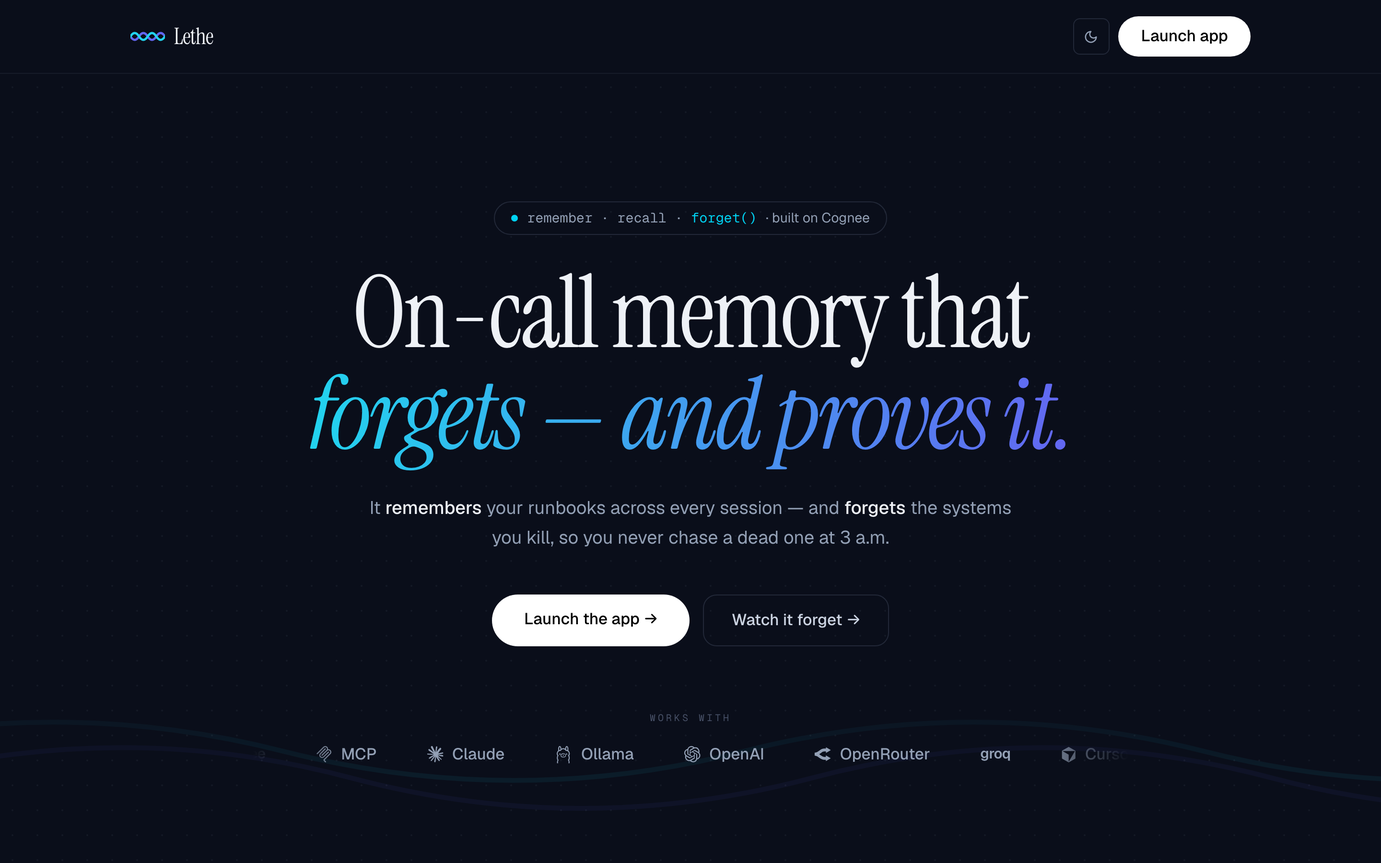
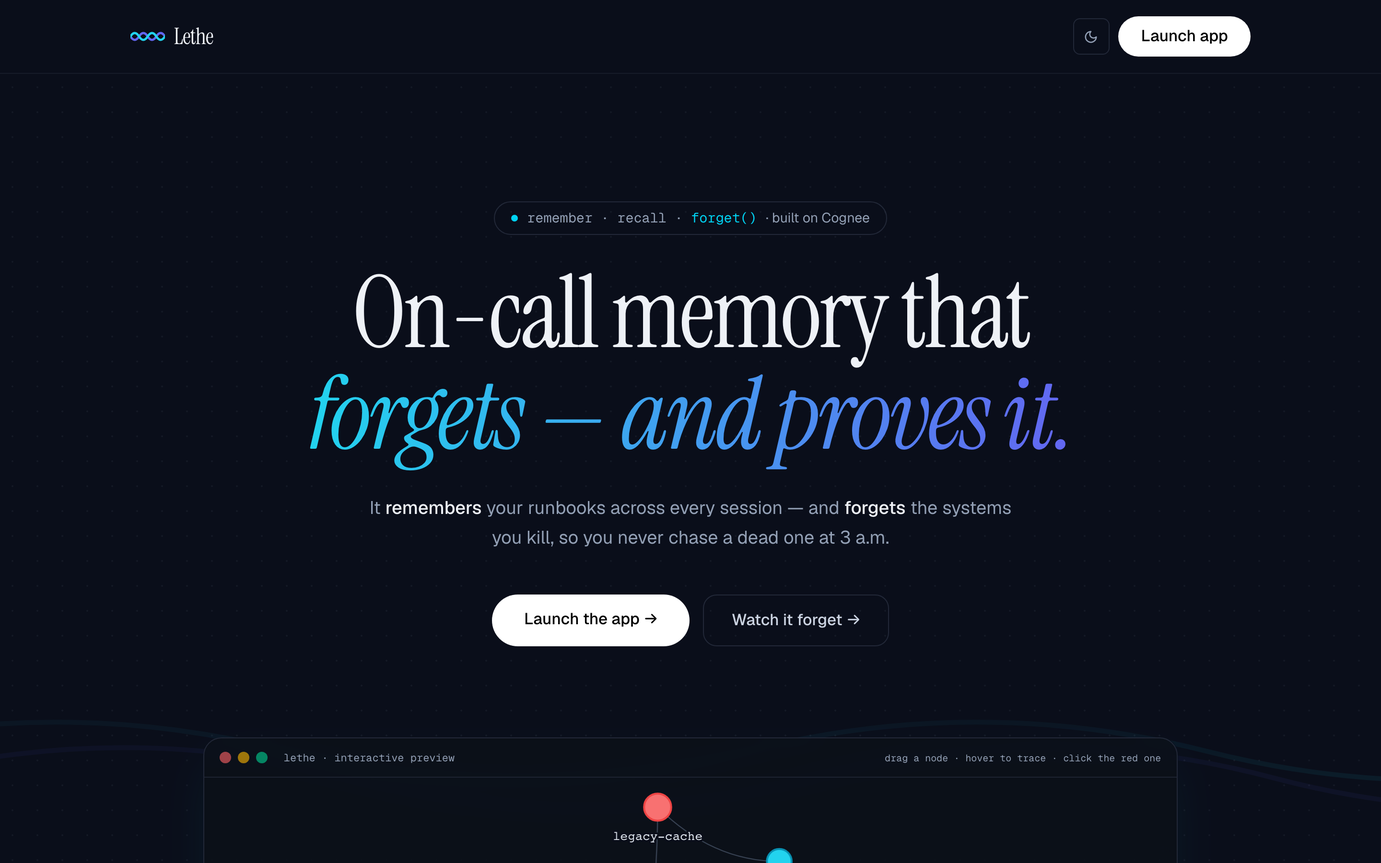
ux: public-demo mode, live graph physics in view, product-first hero, live-demo link in README

diff --git a/app.py b/app.py
@@ -31,6 +31,9 @@ app = FastAPI(title="Lethe")
 # destructive /forget + the quota-spending /ask & /upload). Landing, /app and /health stay open so the
 # page can load and prompt for the token; the web UI and the MCP server attach it automatically.
 _AUTH_TOKEN = os.environ.get("LETHE_AUTH_TOKEN", "").strip()
+# Opt-in HOSTED-DEMO mode: allow anonymous remote access with no token (pair it with LETHE_RATE_LIMIT).
+# Deliberate and explicit — the fail-closed default below is unchanged unless this is set.
+_PUBLIC_DEMO = os.environ.get("LETHE_PUBLIC_DEMO", "").strip().lower() in ("1", "true", "yes")
 # Live retrieval influence for curation: >0 lets demoted (down-weighted) systems sink in answers.
 # Proven hero-safe — with uniform weights (nothing demoted) results are identical to influence=0.
 LIVE_FEEDBACK_INFLUENCE = float(os.environ.get("LETHE_FEEDBACK_INFLUENCE", "0.6"))
@@ -57,9 +60,10 @@ async def _auth_gate(request: Request, call_next):
             # A token is configured — every sensitive route requires it (timing-safe compare).
             if not _is_authenticated(request):
                 return JSONResponse({"detail": "Unauthorized — provide the Lethe access token."}, status_code=401)
-        elif not _is_loopback_client(request):
+        elif not _is_loopback_client(request) and not _PUBLIC_DEMO:
             # No token AND the caller is remote → FAIL CLOSED (don't leave /forget, /upload, /llm-config open).
             # The loopback local demo stays fully open (this branch is skipped for 127.0.0.1/::1).
+            # LETHE_PUBLIC_DEMO=1 opts a HOSTED demo out of this gate (rate-limited, resettable by re-arm/restart).
             return JSONResponse(
                 {"detail": "This Lethe instance is not configured for remote access. "
                            "Set LETHE_AUTH_TOKEN to allow non-local access."}, status_code=403)
@@ -2526,7 +2530,7 @@ PAGE = """<!doctype html>
  }
  function loadGraph(){loadVis(async()=>{
    $('gmeta').textContent='loading…';gpinned=null;
-   {const gs=$('gskel');if(gs)gs.classList.remove('hidden');}const _gbx=$('graphbox');if(_gbx){_gbx.style.transition='opacity .45s ease';_gbx.style.opacity='0';}
+   {const gs=$('gskel');if(gs)gs.classList.add('hidden');}  // physics settles IN VIEW — the live wobble IS the show (CEO: never hide/freeze it)
    try{const d=await(await fetch('/graph?workspace='+encodeURIComponent(activeWs))).json();
      if(d.error){$('gmeta').textContent='error: '+d.error;return;}
      const p=gpal();
@@ -2560,16 +2564,7 @@ PAGE = """<!doctype html>
      const gk=$('gask');
      gnet.on('click',pr=>{if(pr.nodes&&pr.nodes.length){gpinned=pr.nodes[0];gpdepth=1;gFocusHops(gpinned,1);gMeta(gpinned);gPanelShow(gpinned);if(gk)gk.classList.add('hidden');gnet.focus(gpinned,{scale:gnet.getScale(),locked:false,animation:{duration:500,easingFunction:'easeInOutCubic'}});}else{gpinned=null;gpdepth=1;gReset();gMeta(null);gPanelHide();gnet.fit({animation:{duration:600,easingFunction:'easeInOutQuad'}});}});
      gnet.on('doubleClick',pr=>{if(pr.nodes&&pr.nodes.length){const n=gdata.byId[pr.nodes[0]];if(n)askAbout(n.label);}});
-     // S2: reveal-settle — fade the canvas in + a slight camera zoom-out once layout stabilizes (physics untouched).
-     gnet.once('stabilizationIterationsDone',()=>{
-       const gs=$('gskel');if(gs)gs.classList.add('hidden');
-       box.style.opacity='1';
-       gnet.fit({animation:false});
-       const target=gnet.getScale(),pos=gnet.getViewPosition();
-       if(matchMedia('(prefers-reduced-motion:reduce)').matches)return;
-       gnet.moveTo({scale:target*1.15,position:pos});                                            // start a touch zoomed-in
-       gnet.moveTo({scale:target,position:pos,animation:{duration:650,easingFunction:'easeOutCubic'}});  // settle: zoom out into view
-     });
+     gnet.once('stabilizationIterationsDone',()=>gnet.fit({animation:{duration:600,easingFunction:'easeInOutQuad'}}));
      window.gFocus=gFocus;window.gReset=gReset;window.gFocusHops=gFocusHops;
      gMeta(null);
    }catch(e){$('gmeta').textContent='failed to load graph';}
@@ -2824,26 +2819,7 @@ LANDING = """<!doctype html>
     <a href="/app" class="rounded-full bg-zinc-950 px-7 py-3 text-sm font-medium text-white transition duration-200 hover:-translate-y-0.5 hover:bg-zinc-800 hover:shadow-lg hover:shadow-cyan-500/10 dark:bg-white dark:text-black dark:hover:bg-zinc-200">Launch the app →</a>
     <a href="#scrolly" class="rounded-xl border border-zinc-300 px-6 py-3 text-sm font-medium text-zinc-700 transition duration-200 hover:-translate-y-0.5 hover:bg-zinc-100 dark:border-zinc-800 dark:text-zinc-300 dark:hover:bg-zinc-900">Watch it forget &rarr;</a>
   </div>
-  <div class="rise mx-auto mt-14 flex max-w-3xl flex-col items-center gap-4" style="animation-delay:.44s">
-    <span class="mono text-[10px] uppercase tracking-[0.25em] text-zinc-400 dark:text-zinc-600">works with</span>
-    <div class="wwwrap wwmask w-full overflow-hidden">
-      <div class="wwmarq flex w-max items-center">
-        <div id="wwSet" class="flex shrink-0 items-center gap-x-11 pr-11">
-          <span class="flex shrink-0 items-center gap-2 text-zinc-500 transition hover:text-zinc-800 dark:text-zinc-400 dark:hover:text-zinc-100"><svg viewBox="0 0 24 24" class="h-[15px] w-[15px] fill-current" aria-hidden="true"><rect x="1.5" y="9" width="1.7" height="6" rx=".85"/><rect x="4.6" y="6" width="1.7" height="12" rx=".85"/><rect x="7.7" y="3" width="1.7" height="18" rx=".85"/><rect x="10.8" y="8" width="1.7" height="8" rx=".85"/><rect x="13.9" y="1.5" width="1.7" height="21" rx=".85"/><rect x="17" y="7" width="1.7" height="10" rx=".85"/><rect x="20.1" y="4.5" width="1.7" height="15" rx=".85"/></svg><span class="text-[15px] font-semibold lowercase tracking-tight">cognee</span></span>
-          <span class="flex shrink-0 items-center gap-2 text-zinc-500 transition hover:text-zinc-800 dark:text-zinc-400 dark:hover:text-zinc-100"><svg viewBox="0 0 24 24" class="h-[17px] w-[17px] fill-current" aria-hidden="true"><path d="M13.85 0a4.16 4.16 0 0 0-2.95 1.217L1.456 10.66a.835.835 0 0 0 0 1.18.835.835 0 0 0 1.18 0l9.442-9.442a2.49 2.49 0 0 1 3.541 0 2.49 2.49 0 0 1 0 3.541L8.59 12.97l-.1.1a.835.835 0 0 0 0 1.18.835.835 0 0 0 1.18 0l.1-.098 7.03-7.034a2.49 2.49 0 0 1 3.542 0l.049.05a2.49 2.49 0 0 1 0 3.54l-8.54 8.54a1.96 1.96 0 0 0 0 2.755l1.753 1.753a.835.835 0 0 0 1.18 0 .835.835 0 0 0 0-1.18l-1.753-1.753a.266.266 0 0 1 0-.394l8.54-8.54a4.185 4.185 0 0 0 0-5.9l-.05-.05a4.16 4.16 0 0 0-2.95-1.218c-.2 0-.401.02-.6.048a4.17 4.17 0 0 0-1.17-3.552A4.16 4.16 0 0 0 13.85 0m0 3.333a.84.84 0 0 0-.59.245L6.275 10.56a4.186 4.186 0 0 0 0 5.902 4.186 4.186 0 0 0 5.902 0L19.16 9.48a.835.835 0 0 0 0-1.18.835.835 0 0 0-1.18 0l-6.985 6.984a2.49 2.49 0 0 1-3.54 0 2.49 2.49 0 0 1 0-3.54l6.983-6.985a.835.835 0 0 0 0-1.18.84.84 0 0 0-.59-.245"/></svg><span class="text-sm font-medium">MCP</span></span>
-          <span class="flex shrink-0 items-center gap-2 text-zinc-500 transition hover:text-zinc-800 dark:text-zinc-400 dark:hover:text-zinc-100"><svg viewBox="0 0 24 24" class="h-[17px] w-[17px] fill-current" aria-hidden="true"><path d="m4.7144 15.9555 4.7174-2.6471.079-.2307-.079-.1275h-.2307l-.7893-.0486-2.6956-.0729-2.3375-.0971-2.2646-.1214-.5707-.1215-.5343-.7042.0546-.3522.4797-.3218.686.0608 1.5179.1032 2.2767.1578 1.6514.0972 2.4468.255h.3886l.0546-.1579-.1336-.0971-.1032-.0972L6.973 9.8356l-2.55-1.6879-1.3356-.9714-.7225-.4918-.3643-.4614-.1578-1.0078.6557-.7225.8803.0607.2246.0607.8925.686 1.9064 1.4754 2.4893 1.8336.3643.3035.1457-.1032.0182-.0728-.164-.2733-1.3539-2.4467-1.445-2.4893-.6435-1.032-.17-.6194c-.0607-.255-.1032-.4674-.1032-.7285L6.287.1335 6.6997 0l.9957.1336.419.3642.6192 1.4147 1.0018 2.2282 1.5543 3.0296.4553.8985.2429.8318.091.255h.1579v-.1457l.1275-1.706.2368-2.0947.2307-2.6957.0789-.7589.3764-.9107.7468-.4918.5828.2793.4797.686-.0668.4433-.2853 1.8517-.5586 2.9021-.3643 1.9429h.2125l.2429-.2429.9835-1.3053 1.6514-2.0643.7286-.8196.85-.9046.5464-.4311h1.0321l.759 1.1293-.34 1.1657-1.0625 1.3478-.8804 1.1414-1.2628 1.7-.7893 1.36.0729.1093.1882-.0183 2.8535-.607 1.5421-.2794 1.8396-.3157.8318.3886.091.3946-.3278.8075-1.967.4857-2.3072.4614-3.4364.8136-.0425.0304.0486.0607 1.5482.1457.6618.0364h1.621l3.0175.2247.7892.522.4736.6376-.079.4857-1.2142.6193-1.6393-.3886-3.825-.9107-1.3113-.3279h-.1822v.1093l1.0929 1.0686 2.0035 1.8092 2.5075 2.3314.1275.5768-.3218.4554-.34-.0486-2.2039-1.6575-.85-.7468-1.9246-1.621h-.1275v.17l.4432.6496 2.3436 3.5214.1214 1.0807-.17.3521-.6071.2125-.6679-.1214-1.3721-1.9246L14.38 17.959l-1.1414-1.9428-.1397.079-.674 7.2552-.3156.3703-.7286.2793-.6071-.4614-.3218-.7468.3218-1.4753.3886-1.9246.3157-1.53.2853-1.9004.17-.6314-.0121-.0425-.1397.0182-1.4328 1.9672-2.1796 2.9446-1.7243 1.8456-.4128.164-.7164-.3704.0667-.6618.4008-.5889 2.386-3.0357 1.4389-1.882.929-1.0868-.0062-.1579h-.0546l-6.3385 4.1164-1.1293.1457-.4857-.4554.0608-.7467.2307-.2429 1.9064-1.3114Z"/></svg><span class="text-sm font-medium">Claude</span></span>
-          <span class="flex shrink-0 items-center gap-2 text-zinc-500 transition hover:text-zinc-800 dark:text-zinc-400 dark:hover:text-zinc-100"><svg viewBox="0 0 24 24" class="h-[18px] w-[18px] fill-current" aria-hidden="true"><path d="M16.361 10.26a.894.894 0 0 0-.558.47l-.072.148.001.207c0 .193.004.217.059.353.076.193.152.312.291.448.24.238.51.3.872.205a.86.86 0 0 0 .517-.436.752.752 0 0 0 .08-.498c-.064-.453-.33-.782-.724-.897a1.06 1.06 0 0 0-.466 0zm-9.203.005c-.305.096-.533.32-.65.639a1.187 1.187 0 0 0-.06.52c.057.309.31.59.598.667.362.095.632.033.872-.205.14-.136.215-.255.291-.448.055-.136.059-.16.059-.353l.001-.207-.072-.148a.894.894 0 0 0-.565-.472 1.02 1.02 0 0 0-.474.007Zm4.184 2c-.131.071-.223.25-.195.383.031.143.157.288.353.407.105.063.112.072.117.136.004.038-.01.146-.029.243-.02.094-.036.194-.036.222.002.074.07.195.143.253.064.052.076.054.255.059.164.005.198.001.264-.03.169-.082.212-.234.15-.525-.052-.243-.042-.28.087-.355.137-.08.281-.219.324-.314a.365.365 0 0 0-.175-.48.394.394 0 0 0-.181-.033c-.126 0-.207.03-.355.124l-.085.053-.053-.032c-.219-.13-.259-.145-.391-.143a.396.396 0 0 0-.193.032zm.39-2.195c-.373.036-.475.05-.654.086-.291.06-.68.195-.951.328-.94.46-1.589 1.226-1.787 2.114-.04.176-.045.234-.045.53 0 .294.005.357.043.524.264 1.16 1.332 2.017 2.714 2.173.3.033 1.596.033 1.896 0 1.11-.125 2.064-.727 2.493-1.571.114-.226.169-.372.22-.602.039-.167.044-.23.044-.523 0-.297-.005-.355-.045-.531-.288-1.29-1.539-2.304-3.072-2.497a6.873 6.873 0 0 0-.855-.031zm.645.937a3.283 3.283 0 0 1 1.44.514c.223.148.537.458.671.662.166.251.26.508.303.82.02.143.01.251-.043.482-.08.345-.332.705-.672.957a3.115 3.115 0 0 1-.689.348c-.382.122-.632.144-1.525.138-.582-.006-.686-.01-.853-.042-.57-.107-1.022-.334-1.35-.68-.264-.28-.385-.535-.45-.946-.03-.192.025-.509.137-.776.136-.326.488-.73.836-.963.403-.269.934-.46 1.422-.512.187-.02.586-.02.773-.002zm-5.503-11a1.653 1.653 0 0 0-.683.298C5.617.74 5.173 1.666 4.985 2.819c-.07.436-.119 1.04-.119 1.503 0 .544.064 1.24.155 1.721.02.107.031.202.023.208a8.12 8.12 0 0 1-.187.152 5.324 5.324 0 0 0-.949 1.02 5.49 5.49 0 0 0-.94 2.339 6.625 6.625 0 0 0-.023 1.357c.091.78.325 1.438.727 2.04l.13.195-.037.064c-.269.452-.498 1.105-.605 1.732-.084.496-.095.629-.095 1.294 0 .67.009.803.088 1.266.095.555.288 1.143.503 1.534.071.128.243.393.264.407.007.003-.014.067-.046.141a7.405 7.405 0 0 0-.548 1.873c-.062.417-.071.552-.071.991 0 .56.031.832.148 1.279L3.42 24h1.478l-.05-.091c-.297-.552-.325-1.575-.068-2.597.117-.472.25-.819.498-1.296l.148-.29v-.177c0-.165-.003-.184-.057-.293a.915.915 0 0 0-.194-.25 1.74 1.74 0 0 1-.385-.543c-.424-.92-.506-2.286-.208-3.451.124-.486.329-.918.544-1.154a.787.787 0 0 0 .223-.531c0-.195-.07-.355-.224-.522a3.136 3.136 0 0 1-.817-1.729c-.14-.96.114-2.005.69-2.834.563-.814 1.353-1.336 2.237-1.475.199-.033.57-.028.776.01.226.04.367.028.512-.041.179-.085.268-.19.374-.431.093-.215.165-.333.36-.576.234-.29.46-.489.822-.729.413-.27.884-.467 1.352-.561.17-.035.25-.04.569-.04.319 0 .398.005.569.04a4.07 4.07 0 0 1 1.914.997c.117.109.398.457.488.602.034.057.095.177.132.267.105.241.195.346.374.43.14.068.286.082.503.045.343-.058.607-.053.943.016 1.144.23 2.14 1.173 2.581 2.437.385 1.108.276 2.267-.296 3.153-.097.15-.193.27-.333.419-.301.322-.301.722-.001 1.053.493.539.801 1.866.708 3.036-.062.772-.26 1.463-.533 1.854a2.096 2.096 0 0 1-.224.258.916.916 0 0 0-.194.25c-.054.109-.057.128-.057.293v.178l.148.29c.248.476.38.823.498 1.295.253 1.008.231 2.01-.059 2.581a.845.845 0 0 0-.044.098c0 .006.329.009.732.009h.73l.02-.074.036-.134c.019-.076.057-.3.088-.516.029-.217.029-1.016 0-1.258-.11-.875-.295-1.57-.597-2.226-.032-.074-.053-.138-.046-.141.008-.005.057-.074.108-.152.376-.569.607-1.284.724-2.228.031-.26.031-1.378 0-1.628-.083-.645-.182-1.082-.348-1.525a6.083 6.083 0 0 0-.329-.7l-.038-.064.131-.194c.402-.604.636-1.262.727-2.04a6.625 6.625 0 0 0-.024-1.358 5.512 5.512 0 0 0-.939-2.339 5.325 5.325 0 0 0-.95-1.02 8.097 8.097 0 0 1-.186-.152.692.692 0 0 1 .023-.208c.208-1.087.201-2.443-.017-3.503-.19-.924-.535-1.658-.98-2.082-.354-.338-.716-.482-1.15-.455-.996.059-1.8 1.205-2.116 3.01a6.805 6.805 0 0 0-.097.726c0 .036-.007.066-.015.066a.96.96 0 0 1-.149-.078A4.857 4.857 0 0 0 12 3.03c-.832 0-1.687.243-2.456.698a.958.958 0 0 1-.148.078c-.008 0-.015-.03-.015-.066a6.71 6.71 0 0 0-.097-.725C8.997 1.392 8.337.319 7.46.048a2.096 2.096 0 0 0-.585-.041Zm.293 1.402c.248.197.523.759.682 1.388.03.113.06.244.069.292.007.047.026.152.041.233.067.365.098.76.102 1.24l.002.475-.12.175-.118.178h-.278c-.324 0-.646.041-.954.124l-.238.06c-.033.007-.038-.003-.057-.144a8.438 8.438 0 0 1 .016-2.323c.124-.788.413-1.501.696-1.711.067-.05.079-.049.157.013zm9.825-.012c.17.126.358.46.498.888.28.854.36 2.028.212 3.145-.019.14-.024.151-.057.144l-.238-.06a3.693 3.693 0 0 0-.954-.124h-.278l-.119-.178-.119-.175.002-.474c.004-.669.066-1.19.214-1.772.157-.623.434-1.185.68-1.382.078-.062.09-.063.159-.012z"/></svg><span class="text-sm font-medium">Ollama</span></span>
-          <span class="flex shrink-0 items-center gap-2 text-zinc-500 transition hover:text-zinc-800 dark:text-zinc-400 dark:hover:text-zinc-100"><svg viewBox="0 0 24 24" class="h-[17px] w-[17px] fill-current" aria-hidden="true"><path d="M22.2819 9.8211a5.9847 5.9847 0 0 0-.5157-4.9108 6.0462 6.0462 0 0 0-6.5098-2.9A6.0651 6.0651 0 0 0 4.9807 4.1818a5.9847 5.9847 0 0 0-3.9977 2.9 6.0462 6.0462 0 0 0 .7427 7.0966 5.98 5.98 0 0 0 .511 4.9107 6.051 6.051 0 0 0 6.5146 2.9001A5.9847 5.9847 0 0 0 13.2599 24a6.0557 6.0557 0 0 0 5.7718-4.2058 5.9894 5.9894 0 0 0 3.9977-2.9001 6.0557 6.0557 0 0 0-.7475-7.0729zm-9.022 12.6081a4.4755 4.4755 0 0 1-2.8764-1.0408l.1419-.0804 4.7783-2.7582a.7948.7948 0 0 0 .3927-.6813v-6.7369l2.02 1.1686a.071.071 0 0 1 .038.052v5.5826a4.504 4.504 0 0 1-4.4945 4.4944zm-9.6607-4.1254a4.4708 4.4708 0 0 1-.5346-3.0137l.142.0852 4.783 2.7582a.7712.7712 0 0 0 .7806 0l5.8428-3.3685v2.3324a.0804.0804 0 0 1-.0332.0615L9.74 19.9502a4.4992 4.4992 0 0 1-6.1408-1.6464zM2.3408 7.8956a4.485 4.485 0 0 1 2.3655-1.9728V11.6a.7664.7664 0 0 0 .3879.6765l5.8144 3.3543-2.0201 1.1685a.0757.0757 0 0 1-.071 0l-4.8303-2.7865A4.504 4.504 0 0 1 2.3408 7.872zm16.5963 3.8558L13.1038 8.364 15.1192 7.2a.0757.0757 0 0 1 .071 0l4.8303 2.7913a4.4944 4.4944 0 0 1-.6765 8.1042v-5.6772a.79.79 0 0 0-.407-.667zm2.0107-3.0231l-.142-.0852-4.7735-2.7818a.7759.7759 0 0 0-.7854 0L9.409 9.2297V6.8974a.0662.0662 0 0 1 .0284-.0615l4.8303-2.7866a4.4992 4.4992 0 0 1 6.6802 4.66zM8.3065 12.863l-2.02-1.1638a.0804.0804 0 0 1-.038-.0567V6.0742a4.4992 4.4992 0 0 1 7.3757-3.4537l-.142.0805L8.704 5.459a.7948.7948 0 0 0-.3927.6813zm1.0976-2.3654l2.602-1.4998 2.6069 1.4998v2.9994l-2.5974 1.4997-2.6067-1.4997Z"/></svg><span class="text-sm font-medium">OpenAI</span></span>
-          <span class="flex shrink-0 items-center gap-2 text-zinc-500 transition hover:text-zinc-800 dark:text-zinc-400 dark:hover:text-zinc-100"><svg viewBox="0 0 24 24" class="h-[17px] w-[17px] fill-current" aria-hidden="true"><path d="M16.778 1.844v1.919q-.569-.026-1.138-.032-.708-.008-1.415.037c-1.93.126-4.023.728-6.149 2.237-2.911 2.066-2.731 1.95-4.14 2.75-.396.223-1.342.574-2.185.798-.841.225-1.753.333-1.751.333v4.229s.768.108 1.61.333c.842.224 1.789.575 2.185.799 1.41.798 1.228.683 4.14 2.75 2.126 1.509 4.22 2.11 6.148 2.236.88.058 1.716.041 2.555.005v1.918l7.222-4.168-7.222-4.17v2.176c-.86.038-1.611.065-2.278.021-1.364-.09-2.417-.357-3.979-1.465-2.244-1.593-2.866-2.027-3.68-2.508.889-.518 1.449-.906 3.822-2.59 1.56-1.109 2.614-1.377 3.978-1.466.667-.044 1.418-.017 2.278.02v2.176L24 6.014Z"/></svg><span class="text-sm font-medium">OpenRouter</span></span>
-          <span class="flex shrink-0 items-center text-zinc-500 transition hover:text-zinc-800 dark:text-zinc-400 dark:hover:text-zinc-100"><span class="text-[15px] font-semibold lowercase tracking-tight">groq</span></span>
-          <span class="flex shrink-0 items-center gap-2 text-zinc-500 transition hover:text-zinc-800 dark:text-zinc-400 dark:hover:text-zinc-100"><svg viewBox="0 0 24 24" class="h-[16px] w-[16px] fill-current" aria-hidden="true"><path d="M11.503.131 1.891 5.678a.84.84 0 0 0-.42.726v11.188c0 .3.162.575.42.724l9.609 5.55a1 1 0 0 0 .998 0l9.61-5.55a.84.84 0 0 0 .42-.724V6.404a.84.84 0 0 0-.42-.726L12.497.131a1.01 1.01 0 0 0-.996 0M2.657 6.338h18.55c.263 0 .43.287.297.515L12.23 22.918c-.062.107-.229.064-.229-.06V12.335a.59.59 0 0 0-.295-.51l-9.11-5.257c-.109-.063-.064-.23.061-.23"/></svg><span class="text-sm font-medium">Cursor</span></span>
-          <span class="flex shrink-0 items-center text-zinc-500 transition hover:text-zinc-800 dark:text-zinc-400 dark:hover:text-zinc-100"><span class="text-[15px] font-semibold tracking-tight">Antigravity</span></span>
-        </div>
-        <div id="wwClone" aria-hidden="true" class="flex shrink-0 items-center gap-x-11 pr-11"></div>
-      </div>
-    </div>
-  </div>
-  <script>(function(){var s=document.getElementById('wwSet'),c=document.getElementById('wwClone');if(s&&c){c.innerHTML=s.innerHTML;}})();</script>
+
 </section>
 
 <section class="mx-auto max-w-4xl px-5 pb-24">
@@ -2863,6 +2839,29 @@ LANDING = """<!doctype html>
     </div>
   </div>
   <p class="mt-3.5 text-center text-sm text-zinc-500 dark:text-zinc-400">The real thing builds this from your runbooks — <a href="/app" class="underline decoration-dotted underline-offset-2 hover:text-cyan-600 dark:hover:text-cyan-400">open the app</a> for the full graph.</p>
+</section>
+
+<section class="mx-auto max-w-3xl px-5 pb-24">
+  <div class="rise mx-auto mt-0 flex max-w-3xl flex-col items-center gap-4" style="animation-delay:.44s">
+    <span class="mono text-[10px] uppercase tracking-[0.25em] text-zinc-400 dark:text-zinc-600">works with</span>
+    <div class="wwwrap wwmask w-full overflow-hidden">
+      <div class="wwmarq flex w-max items-center">
+        <div id="wwSet" class="flex shrink-0 items-center gap-x-11 pr-11">
+          <span class="flex shrink-0 items-center gap-2 text-zinc-500 transition hover:text-zinc-800 dark:text-zinc-400 dark:hover:text-zinc-100"><svg viewBox="0 0 24 24" class="h-[15px] w-[15px] fill-current" aria-hidden="true"><rect x="1.5" y="9" width="1.7" height="6" rx=".85"/><rect x="4.6" y="6" width="1.7" height="12" rx=".85"/><rect x="7.7" y="3" width="1.7" height="18" rx=".85"/><rect x="10.8" y="8" width="1.7" height="8" rx=".85"/><rect x="13.9" y="1.5" width="1.7" height="21" rx=".85"/><rect x="17" y="7" width="1.7" height="10" rx=".85"/><rect x="20.1" y="4.5" width="1.7" height="15" rx=".85"/></svg><span class="text-[15px] font-semibold lowercase tracking-tight">cognee</span></span>
+          <span class="flex shrink-0 items-center gap-2 text-zinc-500 transition hover:text-zinc-800 dark:text-zinc-400 dark:hover:text-zinc-100"><svg viewBox="0 0 24 24" class="h-[17px] w-[17px] fill-current" aria-hidden="true"><path d="M13.85 0a4.16 4.16 0 0 0-2.95 1.217L1.456 10.66a.835.835 0 0 0 0 1.18.835.835 0 0 0 1.18 0l9.442-9.442a2.49 2.49 0 0 1 3.541 0 2.49 2.49 0 0 1 0 3.541L8.59 12.97l-.1.1a.835.835 0 0 0 0 1.18.835.835 0 0 0 1.18 0l.1-.098 7.03-7.034a2.49 2.49 0 0 1 3.542 0l.049.05a2.49 2.49 0 0 1 0 3.54l-8.54 8.54a1.96 1.96 0 0 0 0 2.755l1.753 1.753a.835.835 0 0 0 1.18 0 .835.835 0 0 0 0-1.18l-1.753-1.753a.266.266 0 0 1 0-.394l8.54-8.54a4.185 4.185 0 0 0 0-5.9l-.05-.05a4.16 4.16 0 0 0-2.95-1.218c-.2 0-.401.02-.6.048a4.17 4.17 0 0 0-1.17-3.552A4.16 4.16 0 0 0 13.85 0m0 3.333a.84.84 0 0 0-.59.245L6.275 10.56a4.186 4.186 0 0 0 0 5.902 4.186 4.186 0 0 0 5.902 0L19.16 9.48a.835.835 0 0 0 0-1.18.835.835 0 0 0-1.18 0l-6.985 6.984a2.49 2.49 0 0 1-3.54 0 2.49 2.49 0 0 1 0-3.54l6.983-6.985a.835.835 0 0 0 0-1.18.84.84 0 0 0-.59-.245"/></svg><span class="text-sm font-medium">MCP</span></span>
+          <span class="flex shrink-0 items-center gap-2 text-zinc-500 transition hover:text-zinc-800 dark:text-zinc-400 dark:hover:text-zinc-100"><svg viewBox="0 0 24 24" class="h-[17px] w-[17px] fill-current" aria-hidden="true"><path d="m4.7144 15.9555 4.7174-2.6471.079-.2307-.079-.1275h-.2307l-.7893-.0486-2.6956-.0729-2.3375-.0971-2.2646-.1214-.5707-.1215-.5343-.7042.0546-.3522.4797-.3218.686.0608 1.5179.1032 2.2767.1578 1.6514.0972 2.4468.255h.3886l.0546-.1579-.1336-.0971-.1032-.0972L6.973 9.8356l-2.55-1.6879-1.3356-.9714-.7225-.4918-.3643-.4614-.1578-1.0078.6557-.7225.8803.0607.2246.0607.8925.686 1.9064 1.4754 2.4893 1.8336.3643.3035.1457-.1032.0182-.0728-.164-.2733-1.3539-2.4467-1.445-2.4893-.6435-1.032-.17-.6194c-.0607-.255-.1032-.4674-.1032-.7285L6.287.1335 6.6997 0l.9957.1336.419.3642.6192 1.4147 1.0018 2.2282 1.5543 3.0296.4553.8985.2429.8318.091.255h.1579v-.1457l.1275-1.706.2368-2.0947.2307-2.6957.0789-.7589.3764-.9107.7468-.4918.5828.2793.4797.686-.0668.4433-.2853 1.8517-.5586 2.9021-.3643 1.9429h.2125l.2429-.2429.9835-1.3053 1.6514-2.0643.7286-.8196.85-.9046.5464-.4311h1.0321l.759 1.1293-.34 1.1657-1.0625 1.3478-.8804 1.1414-1.2628 1.7-.7893 1.36.0729.1093.1882-.0183 2.8535-.607 1.5421-.2794 1.8396-.3157.8318.3886.091.3946-.3278.8075-1.967.4857-2.3072.4614-3.4364.8136-.0425.0304.0486.0607 1.5482.1457.6618.0364h1.621l3.0175.2247.7892.522.4736.6376-.079.4857-1.2142.6193-1.6393-.3886-3.825-.9107-1.3113-.3279h-.1822v.1093l1.0929 1.0686 2.0035 1.8092 2.5075 2.3314.1275.5768-.3218.4554-.34-.0486-2.2039-1.6575-.85-.7468-1.9246-1.621h-.1275v.17l.4432.6496 2.3436 3.5214.1214 1.0807-.17.3521-.6071.2125-.6679-.1214-1.3721-1.9246L14.38 17.959l-1.1414-1.9428-.1397.079-.674 7.2552-.3156.3703-.7286.2793-.6071-.4614-.3218-.7468.3218-1.4753.3886-1.9246.3157-1.53.2853-1.9004.17-.6314-.0121-.0425-.1397.0182-1.4328 1.9672-2.1796 2.9446-1.7243 1.8456-.4128.164-.7164-.3704.0667-.6618.4008-.5889 2.386-3.0357 1.4389-1.882.929-1.0868-.0062-.1579h-.0546l-6.3385 4.1164-1.1293.1457-.4857-.4554.0608-.7467.2307-.2429 1.9064-1.3114Z"/></svg><span class="text-sm font-medium">Claude</span></span>
+          <span class="flex shrink-0 items-center gap-2 text-zinc-500 transition hover:text-zinc-800 dark:text-zinc-400 dark:hover:text-zinc-100"><svg viewBox="0 0 24 24" class="h-[18px] w-[18px] fill-current" aria-hidden="true"><path d="M16.361 10.26a.894.894 0 0 0-.558.47l-.072.148.001.207c0 .193.004.217.059.353.076.193.152.312.291.448.24.238.51.3.872.205a.86.86 0 0 0 .517-.436.752.752 0 0 0 .08-.498c-.064-.453-.33-.782-.724-.897a1.06 1.06 0 0 0-.466 0zm-9.203.005c-.305.096-.533.32-.65.639a1.187 1.187 0 0 0-.06.52c.057.309.31.59.598.667.362.095.632.033.872-.205.14-.136.215-.255.291-.448.055-.136.059-.16.059-.353l.001-.207-.072-.148a.894.894 0 0 0-.565-.472 1.02 1.02 0 0 0-.474.007Zm4.184 2c-.131.071-.223.25-.195.383.031.143.157.288.353.407.105.063.112.072.117.136.004.038-.01.146-.029.243-.02.094-.036.194-.036.222.002.074.07.195.143.253.064.052.076.054.255.059.164.005.198.001.264-.03.169-.082.212-.234.15-.525-.052-.243-.042-.28.087-.355.137-.08.281-.219.324-.314a.365.365 0 0 0-.175-.48.394.394 0 0 0-.181-.033c-.126 0-.207.03-.355.124l-.085.053-.053-.032c-.219-.13-.259-.145-.391-.143a.396.396 0 0 0-.193.032zm.39-2.195c-.373.036-.475.05-.654.086-.291.06-.68.195-.951.328-.94.46-1.589 1.226-1.787 2.114-.04.176-.045.234-.045.53 0 .294.005.357.043.524.264 1.16 1.332 2.017 2.714 2.173.3.033 1.596.033 1.896 0 1.11-.125 2.064-.727 2.493-1.571.114-.226.169-.372.22-.602.039-.167.044-.23.044-.523 0-.297-.005-.355-.045-.531-.288-1.29-1.539-2.304-3.072-2.497a6.873 6.873 0 0 0-.855-.031zm.645.937a3.283 3.283 0 0 1 1.44.514c.223.148.537.458.671.662.166.251.26.508.303.82.02.143.01.251-.043.482-.08.345-.332.705-.672.957a3.115 3.115 0 0 1-.689.348c-.382.122-.632.144-1.525.138-.582-.006-.686-.01-.853-.042-.57-.107-1.022-.334-1.35-.68-.264-.28-.385-.535-.45-.946-.03-.192.025-.509.137-.776.136-.326.488-.73.836-.963.403-.269.934-.46 1.422-.512.187-.02.586-.02.773-.002zm-5.503-11a1.653 1.653 0 0 0-.683.298C5.617.74 5.173 1.666 4.985 2.819c-.07.436-.119 1.04-.119 1.503 0 .544.064 1.24.155 1.721.02.107.031.202.023.208a8.12 8.12 0 0 1-.187.152 5.324 5.324 0 0 0-.949 1.02 5.49 5.49 0 0 0-.94 2.339 6.625 6.625 0 0 0-.023 1.357c.091.78.325 1.438.727 2.04l.13.195-.037.064c-.269.452-.498 1.105-.605 1.732-.084.496-.095.629-.095 1.294 0 .67.009.803.088 1.266.095.555.288 1.143.503 1.534.071.128.243.393.264.407.007.003-.014.067-.046.141a7.405 7.405 0 0 0-.548 1.873c-.062.417-.071.552-.071.991 0 .56.031.832.148 1.279L3.42 24h1.478l-.05-.091c-.297-.552-.325-1.575-.068-2.597.117-.472.25-.819.498-1.296l.148-.29v-.177c0-.165-.003-.184-.057-.293a.915.915 0 0 0-.194-.25 1.74 1.74 0 0 1-.385-.543c-.424-.92-.506-2.286-.208-3.451.124-.486.329-.918.544-1.154a.787.787 0 0 0 .223-.531c0-.195-.07-.355-.224-.522a3.136 3.136 0 0 1-.817-1.729c-.14-.96.114-2.005.69-2.834.563-.814 1.353-1.336 2.237-1.475.199-.033.57-.028.776.01.226.04.367.028.512-.041.179-.085.268-.19.374-.431.093-.215.165-.333.36-.576.234-.29.46-.489.822-.729.413-.27.884-.467 1.352-.561.17-.035.25-.04.569-.04.319 0 .398.005.569.04a4.07 4.07 0 0 1 1.914.997c.117.109.398.457.488.602.034.057.095.177.132.267.105.241.195.346.374.43.14.068.286.082.503.045.343-.058.607-.053.943.016 1.144.23 2.14 1.173 2.581 2.437.385 1.108.276 2.267-.296 3.153-.097.15-.193.27-.333.419-.301.322-.301.722-.001 1.053.493.539.801 1.866.708 3.036-.062.772-.26 1.463-.533 1.854a2.096 2.096 0 0 1-.224.258.916.916 0 0 0-.194.25c-.054.109-.057.128-.057.293v.178l.148.29c.248.476.38.823.498 1.295.253 1.008.231 2.01-.059 2.581a.845.845 0 0 0-.044.098c0 .006.329.009.732.009h.73l.02-.074.036-.134c.019-.076.057-.3.088-.516.029-.217.029-1.016 0-1.258-.11-.875-.295-1.57-.597-2.226-.032-.074-.053-.138-.046-.141.008-.005.057-.074.108-.152.376-.569.607-1.284.724-2.228.031-.26.031-1.378 0-1.628-.083-.645-.182-1.082-.348-1.525a6.083 6.083 0 0 0-.329-.7l-.038-.064.131-.194c.402-.604.636-1.262.727-2.04a6.625 6.625 0 0 0-.024-1.358 5.512 5.512 0 0 0-.939-2.339 5.325 5.325 0 0 0-.95-1.02 8.097 8.097 0 0 1-.186-.152.692.692 0 0 1 .023-.208c.208-1.087.201-2.443-.017-3.503-.19-.924-.535-1.658-.98-2.082-.354-.338-.716-.482-1.15-.455-.996.059-1.8 1.205-2.116 3.01a6.805 6.805 0 0 0-.097.726c0 .036-.007.066-.015.066a.96.96 0 0 1-.149-.078A4.857 4.857 0 0 0 12 3.03c-.832 0-1.687.243-2.456.698a.958.958 0 0 1-.148.078c-.008 0-.015-.03-.015-.066a6.71 6.71 0 0 0-.097-.725C8.997 1.392 8.337.319 7.46.048a2.096 2.096 0 0 0-.585-.041Zm.293 1.402c.248.197.523.759.682 1.388.03.113.06.244.069.292.007.047.026.152.041.233.067.365.098.76.102 1.24l.002.475-.12.175-.118.178h-.278c-.324 0-.646.041-.954.124l-.238.06c-.033.007-.038-.003-.057-.144a8.438 8.438 0 0 1 .016-2.323c.124-.788.413-1.501.696-1.711.067-.05.079-.049.157.013zm9.825-.012c.17.126.358.46.498.888.28.854.36 2.028.212 3.145-.019.14-.024.151-.057.144l-.238-.06a3.693 3.693 0 0 0-.954-.124h-.278l-.119-.178-.119-.175.002-.474c.004-.669.066-1.19.214-1.772.157-.623.434-1.185.68-1.382.078-.062.09-.063.159-.012z"/></svg><span class="text-sm font-medium">Ollama</span></span>
+          <span class="flex shrink-0 items-center gap-2 text-zinc-500 transition hover:text-zinc-800 dark:text-zinc-400 dark:hover:text-zinc-100"><svg viewBox="0 0 24 24" class="h-[17px] w-[17px] fill-current" aria-hidden="true"><path d="M22.2819 9.8211a5.9847 5.9847 0 0 0-.5157-4.9108 6.0462 6.0462 0 0 0-6.5098-2.9A6.0651 6.0651 0 0 0 4.9807 4.1818a5.9847 5.9847 0 0 0-3.9977 2.9 6.0462 6.0462 0 0 0 .7427 7.0966 5.98 5.98 0 0 0 .511 4.9107 6.051 6.051 0 0 0 6.5146 2.9001A5.9847 5.9847 0 0 0 13.2599 24a6.0557 6.0557 0 0 0 5.7718-4.2058 5.9894 5.9894 0 0 0 3.9977-2.9001 6.0557 6.0557 0 0 0-.7475-7.0729zm-9.022 12.6081a4.4755 4.4755 0 0 1-2.8764-1.0408l.1419-.0804 4.7783-2.7582a.7948.7948 0 0 0 .3927-.6813v-6.7369l2.02 1.1686a.071.071 0 0 1 .038.052v5.5826a4.504 4.504 0 0 1-4.4945 4.4944zm-9.6607-4.1254a4.4708 4.4708 0 0 1-.5346-3.0137l.142.0852 4.783 2.7582a.7712.7712 0 0 0 .7806 0l5.8428-3.3685v2.3324a.0804.0804 0 0 1-.0332.0615L9.74 19.9502a4.4992 4.4992 0 0 1-6.1408-1.6464zM2.3408 7.8956a4.485 4.485 0 0 1 2.3655-1.9728V11.6a.7664.7664 0 0 0 .3879.6765l5.8144 3.3543-2.0201 1.1685a.0757.0757 0 0 1-.071 0l-4.8303-2.7865A4.504 4.504 0 0 1 2.3408 7.872zm16.5963 3.8558L13.1038 8.364 15.1192 7.2a.0757.0757 0 0 1 .071 0l4.8303 2.7913a4.4944 4.4944 0 0 1-.6765 8.1042v-5.6772a.79.79 0 0 0-.407-.667zm2.0107-3.0231l-.142-.0852-4.7735-2.7818a.7759.7759 0 0 0-.7854 0L9.409 9.2297V6.8974a.0662.0662 0 0 1 .0284-.0615l4.8303-2.7866a4.4992 4.4992 0 0 1 6.6802 4.66zM8.3065 12.863l-2.02-1.1638a.0804.0804 0 0 1-.038-.0567V6.0742a4.4992 4.4992 0 0 1 7.3757-3.4537l-.142.0805L8.704 5.459a.7948.7948 0 0 0-.3927.6813zm1.0976-2.3654l2.602-1.4998 2.6069 1.4998v2.9994l-2.5974 1.4997-2.6067-1.4997Z"/></svg><span class="text-sm font-medium">OpenAI</span></span>
+          <span class="flex shrink-0 items-center gap-2 text-zinc-500 transition hover:text-zinc-800 dark:text-zinc-400 dark:hover:text-zinc-100"><svg viewBox="0 0 24 24" class="h-[17px] w-[17px] fill-current" aria-hidden="true"><path d="M16.778 1.844v1.919q-.569-.026-1.138-.032-.708-.008-1.415.037c-1.93.126-4.023.728-6.149 2.237-2.911 2.066-2.731 1.95-4.14 2.75-.396.223-1.342.574-2.185.798-.841.225-1.753.333-1.751.333v4.229s.768.108 1.61.333c.842.224 1.789.575 2.185.799 1.41.798 1.228.683 4.14 2.75 2.126 1.509 4.22 2.11 6.148 2.236.88.058 1.716.041 2.555.005v1.918l7.222-4.168-7.222-4.17v2.176c-.86.038-1.611.065-2.278.021-1.364-.09-2.417-.357-3.979-1.465-2.244-1.593-2.866-2.027-3.68-2.508.889-.518 1.449-.906 3.822-2.59 1.56-1.109 2.614-1.377 3.978-1.466.667-.044 1.418-.017 2.278.02v2.176L24 6.014Z"/></svg><span class="text-sm font-medium">OpenRouter</span></span>
+          <span class="flex shrink-0 items-center text-zinc-500 transition hover:text-zinc-800 dark:text-zinc-400 dark:hover:text-zinc-100"><span class="text-[15px] font-semibold lowercase tracking-tight">groq</span></span>
+          <span class="flex shrink-0 items-center gap-2 text-zinc-500 transition hover:text-zinc-800 dark:text-zinc-400 dark:hover:text-zinc-100"><svg viewBox="0 0 24 24" class="h-[16px] w-[16px] fill-current" aria-hidden="true"><path d="M11.503.131 1.891 5.678a.84.84 0 0 0-.42.726v11.188c0 .3.162.575.42.724l9.609 5.55a1 1 0 0 0 .998 0l9.61-5.55a.84.84 0 0 0 .42-.724V6.404a.84.84 0 0 0-.42-.726L12.497.131a1.01 1.01 0 0 0-.996 0M2.657 6.338h18.55c.263 0 .43.287.297.515L12.23 22.918c-.062.107-.229.064-.229-.06V12.335a.59.59 0 0 0-.295-.51l-9.11-5.257c-.109-.063-.064-.23.061-.23"/></svg><span class="text-sm font-medium">Cursor</span></span>
+          <span class="flex shrink-0 items-center text-zinc-500 transition hover:text-zinc-800 dark:text-zinc-400 dark:hover:text-zinc-100"><span class="text-[15px] font-semibold tracking-tight">Antigravity</span></span>
+        </div>
+        <div id="wwClone" aria-hidden="true" class="flex shrink-0 items-center gap-x-11 pr-11"></div>
+      </div>
+    </div>
+  </div>
+  <script>(function(){var s=document.getElementById('wwSet'),c=document.getElementById('wwClone');if(s&&c){c.innerHTML=s.innerHTML;}})();</script>
 </section>
 
 <section class="mx-auto max-w-2xl px-5 pb-24">

diff --git a/tests/test_routes.py b/tests/test_routes.py
@@ -125,6 +125,16 @@ def test_mutating_route_fails_closed_for_remote_client(ready_app):
     assert "not configured for remote access" in r.json()["detail"]
 
 
+def test_public_demo_mode_allows_remote_readonly(ready_app, monkeypatch):
+    # LETHE_PUBLIC_DEMO=1 (hosted demo) opts out of the remote fail-closed gate — an
+    # anonymous remote caller can use the API (rate limiting is the abuse guard there).
+    monkeypatch.setattr(ready_app, "_PUBLIC_DEMO", True)
+    remote = TestClient(ready_app.app)  # non-loopback client host
+    r = remote.get("/systems?workspace=incidents")
+    assert r.status_code == 200
+    assert any(s["name"] == "legacy-cache" for s in r.json()["systems"])
+
+
 def test_mutating_route_allowed_for_loopback_client(loopback_client, ib_mod, monkeypatch):
     # Sibling assertion to the above: the SAME route, from loopback, passes the gate.
     # /forget reads the graph BEFORE the n==0 shortcut, so stub _graph_counts (would

diff --git a/README.md b/README.md
@@ -8,6 +8,10 @@ It remembers your team's runbooks across every session, answers on-call question
 
 <img src="docs/screenshots/landing.png" alt="Lethe landing — On-call memory that forgets the stale stuff" width="100%">
 
+### ⚡ [**Try it live → vinayaksonthalia-lethe.hf.space**](https://vinayaksonthalia-lethe.hf.space)
+
+No signup. Ask *"If auth-service latency is high, what should I check?"* → decommission `legacy-cache` in **Systems** (watch the receipt) → ask the **exact same question** again — the answer flips. Then hit **Re-arm the demo** and run it as many times as you like.
+
 </div>
 
 ---
